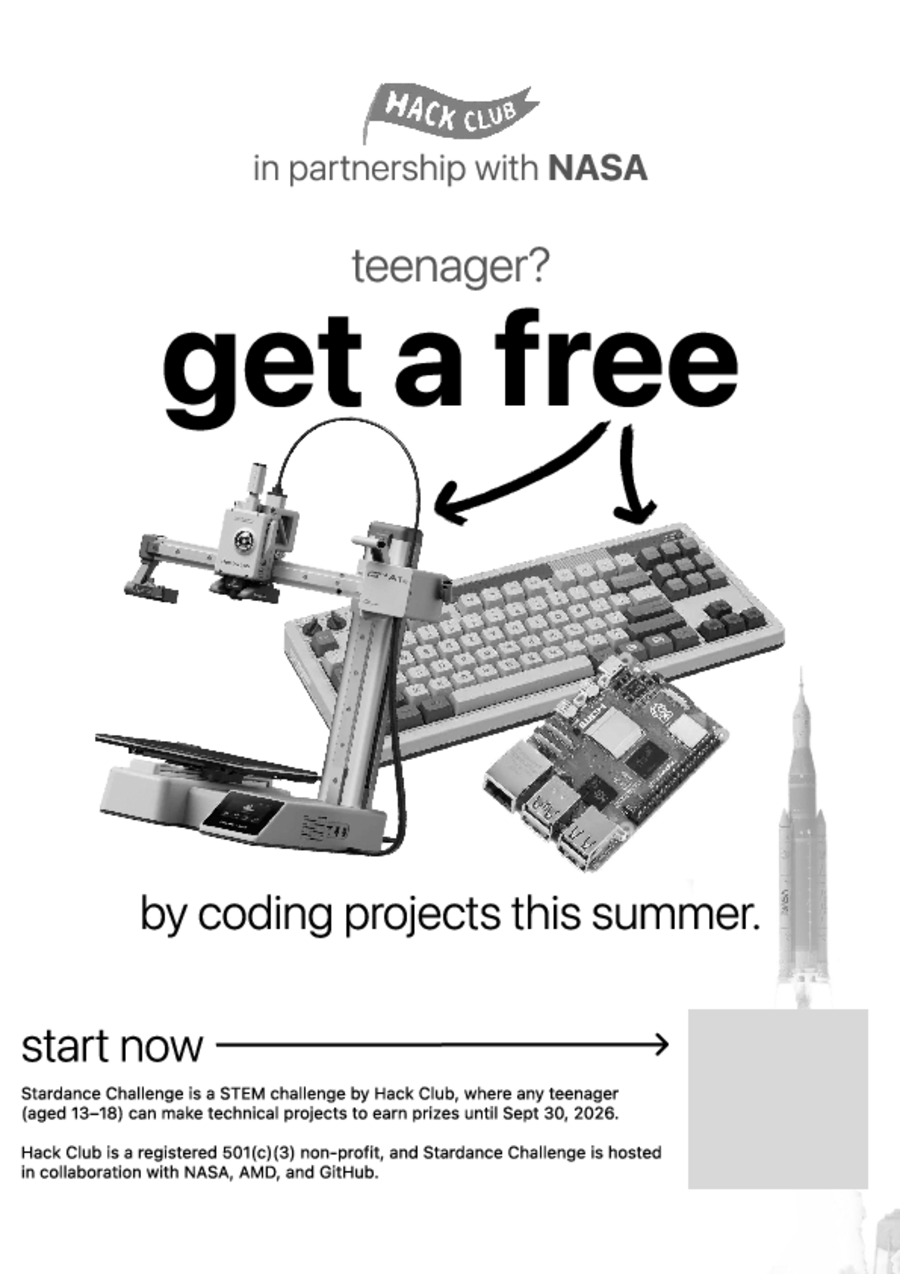
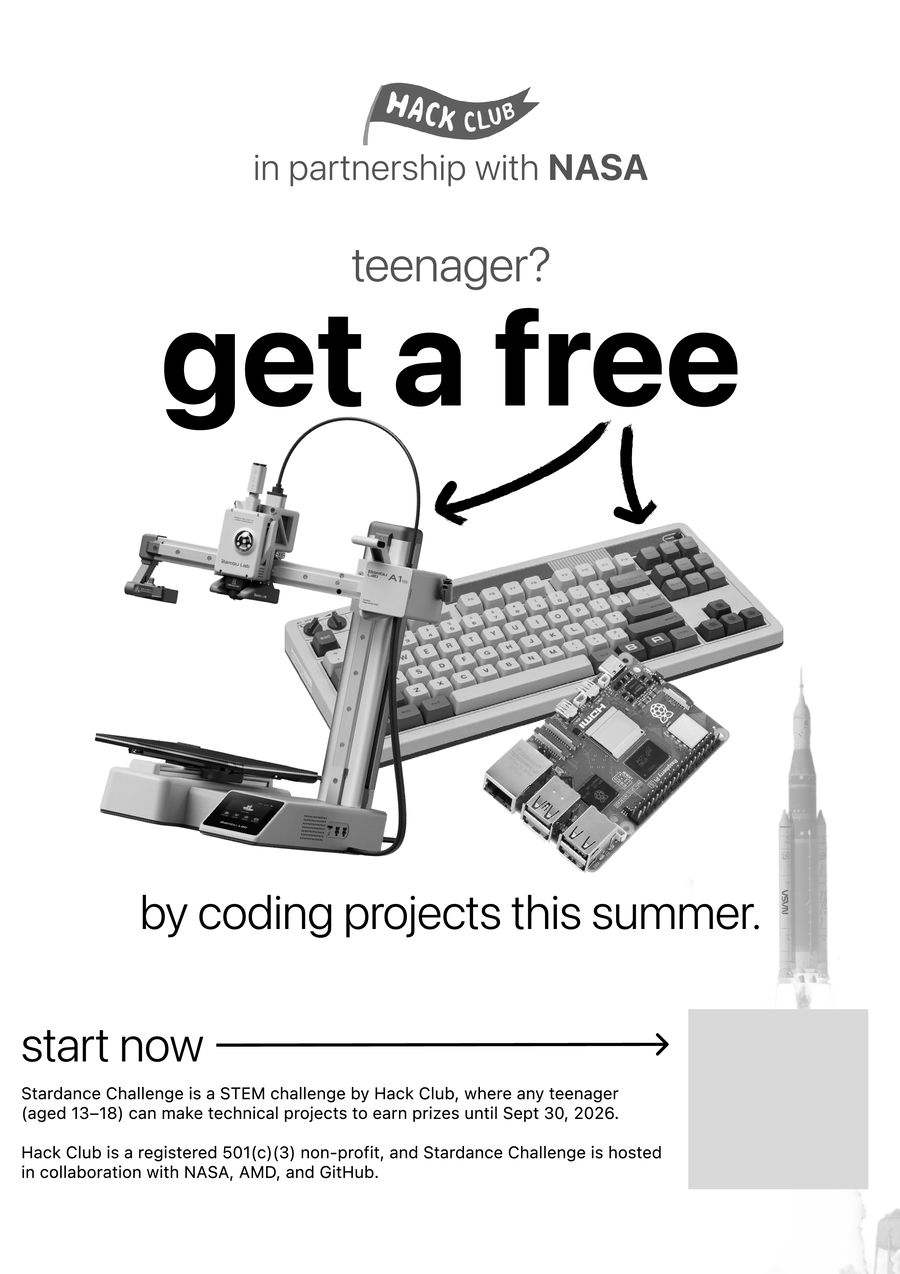
fix(posters): OK ACTUALLY WORKS THIS TIME ISWEAR

diff --git a/src/lib/posters/pdf.ts b/src/lib/posters/pdf.ts
@@ -7,8 +7,8 @@ import {
   getPosterRenderConfig,
   resolvePosterTemplatePath,
 } from "@/lib/posters/config";
-import { generateQrCodePng } from "@/lib/posters/qr";
-import type { PosterRow, PosterStyle } from "@/lib/posters/types";
+import { createQrCodeMatrix, generateQrCodePng } from "@/lib/posters/qr";
+import type { PosterRow, PosterStyle, PosterTemplateCoordinates } from "@/lib/posters/types";
 
 function hexToRgb(hexColor: string) {
   const clean = hexColor.replace(/^#/, "");
@@ -18,8 +18,41 @@ function hexToRgb(hexColor: string) {
   return rgb(r, g, b);
 }
 
-function shouldUseTransparentQrBackground(style: PosterStyle) {
+function shouldDrawVectorQrCode(style: PosterStyle) {
   return style === "bw" || style === "printer_efficient" || style === "a4_bw";
+}
+
+function drawVectorQrCode(
+  page: ReturnType<PDFDocument["getPage"]>,
+  content: string,
+  config: PosterTemplateCoordinates,
+) {
+  const quietZoneModules = 2;
+  const matrix = createQrCodeMatrix(content);
+  const moduleSize = config.size / (matrix.size + quietZoneModules * 2);
+
+  for (let row = 0; row < matrix.size; row += 1) {
+    let runStart: number | null = null;
+
+    for (let col = 0; col <= matrix.size; col += 1) {
+      const isDark = col < matrix.size && matrix.get(row, col) === 1;
+
+      if (isDark && runStart === null) {
+        runStart = col;
+      }
+
+      if ((!isDark || col === matrix.size) && runStart !== null) {
+        page.drawRectangle({
+          x: config.x + (runStart + quietZoneModules) * moduleSize,
+          y: config.y + config.size - (row + quietZoneModules + 1) * moduleSize,
+          width: (col - runStart) * moduleSize,
+          height: moduleSize,
+          color: rgb(0, 0, 0),
+        });
+        runStart = null;
+      }
+    }
+  }
 }
 
 async function createFallbackPosterPdf(content: string) {
@@ -68,18 +101,20 @@ export async function generatePosterPdf(options: {
   );
   const qrConfig = renderConfig.qr;
   const textConfig = renderConfig.text;
-  const qrPng = await generateQrCodePng(options.content, qrConfig.size, {
-    transparentLight: shouldUseTransparentQrBackground(options.style),
-  });
-  const qrImage = await pdf.embedPng(qrPng);
   const font = await pdf.embedFont(StandardFonts.HelveticaBold);
 
-  page.drawImage(qrImage, {
-    x: qrConfig.x,
-    y: qrConfig.y,
-    width: qrConfig.size,
-    height: qrConfig.size,
-  });
+  if (shouldDrawVectorQrCode(options.style)) {
+    drawVectorQrCode(page, options.content, qrConfig);
+  } else {
+    const qrPng = await generateQrCodePng(options.content, qrConfig.size);
+    const qrImage = await pdf.embedPng(qrPng);
+    page.drawImage(qrImage, {
+      x: qrConfig.x,
+      y: qrConfig.y,
+      width: qrConfig.size,
+      height: qrConfig.size,
+    });
+  }
 
   const referralText = `Ref: ${formatPosterReferralCode(options.referralCode)}`;
   const textWidth = font.widthOfTextAtSize(referralText, textConfig.size);

diff --git a/src/lib/posters/qr.ts b/src/lib/posters/qr.ts
@@ -8,11 +8,13 @@ import {
 } from "@/lib/posters/config";
 import type { PosterRow } from "@/lib/posters/types";
 
-export async function generateQrCodePng(
-  content: string,
-  size: number,
-  options: { transparentLight?: boolean } = {},
-) {
+export function createQrCodeMatrix(content: string) {
+  return QRCode.create(content, {
+    errorCorrectionLevel: "L",
+  }).modules;
+}
+
+export async function generateQrCodePng(content: string, size: number) {
   return QRCode.toBuffer(content, {
     type: "png",
     width: Math.max(256, Math.round(size * 3)),
@@ -20,7 +22,7 @@ export async function generateQrCodePng(
     errorCorrectionLevel: "L",
     color: {
       dark: "#000000",
-      light: options.transparentLight === true ? "#00000000" : "#FFFFFF",
+      light: "#FFFFFF",
     },
   });
 }